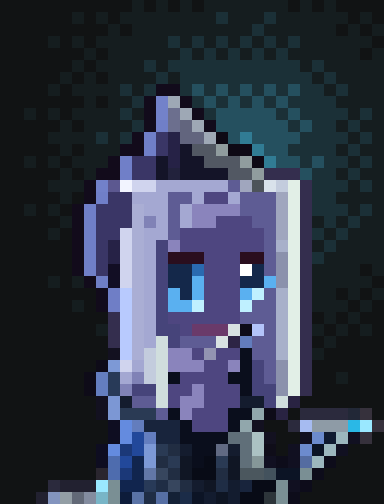
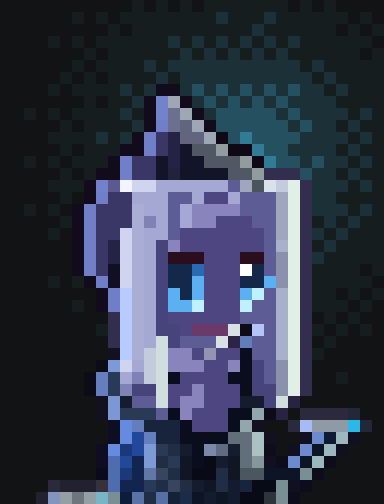
Drow Ranger: bow() orthogonalizes the string side; shorter quiver fletching; VOXEL.md lists bow

diff --git a/client/src/art/portraits/drow_ranger.js b/client/src/art/portraits/drow_ranger.js
@@ -1,7 +1,7 @@
 // GENERATED by tools/vox/portrait.mjs (drow_ranger) -- do not edit by hand. Voxel HUD portrait 32x42 (= the 32x42 the HUD shows, 1 art px = 1 u), opaque.
 // Loaded by client/src/art/portraits.js, which swaps it into the sheet's 'portrait' frame unless ?vox=0.
 export default {
-  pal: { '0':'#8a84bc', '1':'#46447a', '2':'#aaaed4', '3':'#707fc8', '4':'#141428', '5':'#d0d4ee', '6':'#14284a', '7':'#525863', '8':'#a8b0ca', '9':'#5ab0f0', '!':'#111314', '#':'#151d1f', '$':'#1b3037', '%':'#4e4680', '&':'#5e5c94', '(':'#25505f', ')':'#a4a8d2', '*':'#120b1b', '+':'#342e4e', ',':'#3a3666', '-':'#e2efe7', '/':'#0a0e1c', ':':'#d0dedd', ';':'#111021', '<':'#080b16', '=':'#8b91ac', '>':'#b8cafe', '?':'#141c2e', '@':'#2a3a54', 'A':'#2b2a3d', 'B':'#18243c', 'C':'#262246', 'D':'#a0a6be', 'E':'#2a0e1e', 'F':'#0e0b18', 'G':'#131120', 'H':'#212d42', 'I':'#101624', 'J':'#0d0c1a', 'K':'#7a8f94', 'L':'#9ea8b5', 'M':'#0e0915', 'N':'#c3ccdd', 'O':'#0e0d21', 'P':'#606f79', 'Q':'#0c1425', 'R':'#11254e', 'S':'#222130', 'T':'#62657e', 'U':'#317c94', 'V':'#909c9e', 'W':'#8082b6', 'X':'#6f7ec6', 'Y':'#bff0ff', 'Z':'#6a3a6a', '[':'#7d99d6', ']':'#647ebf', '^':'#283a58', '_':'#36313c', 'a':'#648bdf', 'b':'#8e9ba6', 'c':'#22489a', 'd':'#9cb7be', 'e':'#1f2d45', 'f':'#131c2f', 'g':'#7382ca', 'h':'#6c6f8e', 'i':'#120e24', 'j':'#d8e2e2', 'k':'#7c97d4', 'l':'#292342', 'm':'#91a7ac', 'n':'#9ae8ff', 'o':'#abc2c3', 'p':'#6c8bce', 'q':'#1b3878', 'r':'#4e6cae', 's':'#37465e', 't':'#4b575e', 'u':'#22223c', 'v':'#7281ca', 'w':'#5c5890', 'x':'#f2f4ff', 'y':'#4d535a', 'z':'#d9e2eb', '{':'#2a6ab0', '|':'#ffffff', '}':'#b3c4fa', '~':'#2d2445', '¡':'#627cbc', '¢':'#9394b1', '£':'#222837', '¤':'#637dbd', '¥':'#a6bbf1', '¦':'#2ab8e6', '§':'#101a30', '¨':'#616a83', '©':'#0f0d19', 'ª':'#859798', '«':'#546ca1', '¬':'#2a262f', '®':'#6277a7', '¯':'#43525d', '°':'#8394be', '±':'#939ea5', '²':'#626977', '³':'#838c9f', '´':'#78b5c7', 'µ':'#0d1c3a', '¶':'#5a73a6', '·':'#566fa4', '¸':'#142136', '¹':'#1b2c48', 'º':'#0e1523', '»':'#2d353a' },
+  pal: { '0':'#46447a', '1':'#0a0e1c', '2':'#aaaed4', '3':'#707fc8', '4':'#141428', '5':'#d0d4ee', '6':'#14284a', '7':'#525863', '8':'#a8b0ca', '9':'#5ab0f0', '!':'#111314', '#':'#151d1f', '$':'#1b3037', '%':'#4e4680', '&':'#5e5c94', '(':'#25505f', ')':'#a4a8d2', '*':'#120b1b', '+':'#342e4e', ',':'#3a3666', '-':'#e2efe7', '/':'#8a84bc', ':':'#d0dedd', ';':'#141c2e', '<':'#080b16', '=':'#8b91ac', '>':'#b8cafe', '?':'#2b2a3d', '@':'#18243c', 'A':'#111021', 'B':'#0c1425', 'C':'#262246', 'D':'#a0a6be', 'E':'#2a0e1e', 'F':'#0e0b18', 'G':'#131120', 'H':'#2a3a54', 'I':'#212d42', 'J':'#101624', 'K':'#0d0c1a', 'L':'#9ea8b5', 'M':'#0e0915', 'N':'#c3ccdd', 'O':'#0e0d21', 'P':'#606f79', 'Q':'#11254e', 'R':'#7a8f94', 'S':'#222130', 'T':'#62657e', 'U':'#317c94', 'V':'#909c9e', 'W':'#8082b6', 'X':'#6f7ec6', 'Y':'#bff0ff', 'Z':'#6a3a6a', '[':'#7d99d6', ']':'#647ebf', '^':'#283a58', '_':'#648bdf', 'a':'#8e9ba6', 'b':'#22489a', 'c':'#6c8bce', 'd':'#9cb7be', 'e':'#4e6cae', 'f':'#1f2d45', 'g':'#131c2f', 'h':'#7382ca', 'i':'#6c6f8e', 'j':'#120e24', 'k':'#d8e2e2', 'l':'#7c97d4', 'm':'#292342', 'n':'#91a7ac', 'o':'#222837', 'p':'#abc2c3', 'q':'#1b3878', 'r':'#37465e', 's':'#4b575e', 't':'#939ea5', 'u':'#22223c', 'v':'#7281ca', 'w':'#5c5890', 'x':'#f2f4ff', 'y':'#4d535a', 'z':'#d9e2eb', '{':'#2a6ab0', '|':'#ffffff', '}':'#b3c4fa', '~':'#2d2445', '¡':'#627cbc', '¢':'#9394b1', '£':'#637dbd', '¤':'#a6bbf1', '¥':'#2ab8e6', '¦':'#101a30', '§':'#7c88a8', '¨':'#616a83', '©':'#0f0d19', 'ª':'#859798', '«':'#0b0a1a', '¬':'#6277a7', '®':'#36313c', '¯':'#8394be', '°':'#6e767b', '±':'#78b5c7', '²':'#0d1c3a', '³':'#5a73a6', '´':'#566fa4', 'µ':'#142136', '¶':'#1b2c48', '·':'#0e1523', '¸':'#2d353a' },
   face: [4, 11, 24, 24],
   rows: [
     '!!!!!!!!!!!#!#!#!#######!#!#!!!!',
@@ -12,39 +12,39 @@ export default {
     '!!!!!!#!####$#$$$$$$$$$$$#$#####',
     '!!!!!#!#!####$#$$$$$$$$$$$#$####',
     '!!!!#!####$#$**$($($($($($$#$###',
-    '!!!!!!!#!##$*gL*$($($($($$$$####',
-    '!!#!#!####$#*ghL*$((((($($$$$#$#',
-    '!!!!!#!####$*3hTL*(((((($($$#$##',
+    '!!!!!!!#!##$*hL*$($($($($$$$####',
+    '!!#!#!####$#*hiL*$((((($($$$$#$#',
+    '!!!!!#!####$*3iTL*(((((($($$#$##',
     '!!!!####$#$*3,CTTLM(U(((($$$$#$#',
     '!!!!!#!###**3,C477VMMU(($$$$#$##',
     '!!#!#!###*3,,4C44777VMU(($($$#$#',
     '!!!!!#!#**3,,4u444477V+++($$#$##',
     '!!!!###*vwx55))))))&DyzN-+$$$#$#',
     '!!!!!#!*3,,)))&&)%%)&&&D-+$$####',
-    '!!#!#!*3,,,2))&)0000&&&D-+$$$#$#',
-    '!!!!!#*3,,,2W)&)00%%%&&D-+#$#$##',
+    '!!#!#!*3,,,2))&)////&&&D-+$$$#$#',
+    '!!!!!#*3,,,2W)&)//%%%&&D-+#$#$##',
     '!!!!#!*3,,52))&%%%%%%%&D-+$#$###',
-    '!!!!!!*3,C52)10%%%%%%%&8-+#$####',
-    '!!!!!!*3,C52)1EEE%%%EE&=-+$#####',
-    '!!!!!!*3,i52)166{%%%|6&=-+####!#',
-    '!!!!#!#*Xi52)1669%%%669=-+#####!',
-    '!!!!!!!!*X>2)1969%%%9Y&8-+##!#!#',
-    '!!!!!!#!*X>2)199Y%%%Y&&8-+###!#!',
-    '!!!!!!!!!+>2)1%%%%%%&&&8-+!#!#!!',
-    '!!!!!!!!#+>2)11%ZZZjF}&8-+#!#!#!',
-    '!!!!!!!!!+>2):1&&&j~¡&&8-+!#!!!!',
-    '!!!!!!!!!G>2N:00%¢%%/&&8-+#!!!!!',
-    '!!!!!!!!F[5)N:000%%0/1&=-+!!!!!!',
-    '!!!!!!!F]^)WN:/%%%%//1&=-+!!#!!!',
-    '!!!!!!!F]^W11:%%0%%%/11=-+!!!!!!',
-    '!!!!!!!!Gk?&&:%00%%%??1:l!!!!!!!',
-    '!!!!!!!!Gk@@@&/0%%%//mFl!AAAA£_!',
-    '!!!!!!!!!Oa¤BBB/%%%/mG!!A¥bbb¦n_',
-    '!!!!!!!!!Oac]BB////PPoG!!;p§d;_!',
-    '!!!!!!!!Oaqc[@H?//¨?Po©!;pQd;!!!',
-    '!!!!!!!!OrcR[H@I/<@IPª;J;«dJ!!!!',
-    '!!!!!!!!¬rqR®sHI<<HItt¯QQKJ!!!!!',
-    '!!!!ASSSnKRR^esH?IefB<<K;J!!!!!!',
-    '!!!S°±²³´Kµ¶e·¸¹Qfºf<<»KJ!!!!!!!'
+    '!!!!!!*3,C52)0/%%%%%%%&8-+#$####',
+    '!!!!!!*3,C52)0EEE%%%EE&=-+$#####',
+    '!!!!!!*3,j52)066{%%%|6&=-+####!#',
+    '!!!!#!#*Xj52)0669%%%669=-+#####!',
+    '!!!!!!!!*X>2)0969%%%9Y&8-+##!#!#',
+    '!!!!!!#!*X>2)099Y%%%Y&&8-+###!#!',
+    '!!!!!!!!!+>2)0%%%%%%&&&8-+!#!#!!',
+    '!!!!!!!!#+>2)00%ZZZkF}&8-+#!#!#!',
+    '!!!!!!!!!+>2):0&&&k~¡&&8-+!#!!!!',
+    '!!!!!!!!!G>2N://%¢%%1&&8-+#!!!!!',
+    '!!!!!!!!F[5)N:///%%/10&=-+!!!!!!',
+    '!!!!!!!F]^)WN:1%%%%110&=-+!!#!!!',
+    '!!!!!!!F]^W00:%%/%%%100=-+!!!!!!',
+    '!!!!!!!!Gl;&&:%//%%%;;0:m!!!!!!!',
+    '!!!!!!!!GlHHH&1/%%%11nFm!????o!!',
+    '!!!!!!!!!O_£@@@1%%%1nG!!?¤aaa¥o!',
+    '!!!!!!!!!O_b]@@1111PPpG!!Ac¦dA!!',
+    '!!!!!!!!O_qb[HI;1§¨;Pp©!AcBdA!!!',
+    '!!!!!!!!OebQ[IHJ1<;JPªAKcBdK!!!!',
+    '!!!!!!!!«eqQ¬rIJ<<IJssBBBRK!!!!!',
+    '!!!!?SSS®eQQ^frI;Jfg@<<RAK!!!!!!',
+    '!!!S¯t°t±R²³f´µ¶Bg·g<<¸RK!!!!!!!'
   ]
 };

diff --git a/shared/vox/parts.js b/shared/vox/parts.js
@@ -301,11 +301,11 @@ export function shield(v, rig, k, o, M) {
   disc(v, c, n, r, th, (px, py, pz, rad, front) => (rad > 1 - 1.15 / r ? M.rim : rad < 1.3 / r && front ? M.boss : M.face));
   v.ellipsoid(...add3(c, mul3(n, th / 2)), 0.9, 0.9, 0.9, M.boss);
 }
-/** Recurve bow gripped at g (posed): limbs along unit axis d (tip to tip), string on the archer side n (unit, perpendicular to d).
+/** Recurve bow gripped at g (posed): limbs along unit axis d (tip to tip), string on the archer side n (made perpendicular to d).
  * o: { len (half length), bend (limb sweep toward the string at the tips), recurve (tip flick away from the string over the last quarter),
  * r (limb radius), string (false = none) }. M: { limb, tip?, grip?, string? }; tip = the outer recurve (often emissive). Returns the tips [a, b]. */
-export function bow(v, g, d, n, o, M) {
-  const L = o.len ?? 9, bend = o.bend ?? 2.4, rc = o.recurve ?? 1.4, r = o.r ?? 0.6, N = Math.max(6, Math.ceil(L * 1.5));
+export function bow(v, g, d, n0, o, M) {
+  const n = norm3(sub3(n0, mul3(d, dot3(d, n0)))), L = o.len ?? 9, bend = o.bend ?? 2.4, rc = o.recurve ?? 1.4, r = o.r ?? 0.6, N = Math.max(6, Math.ceil(L * 1.5));
   const at = t => { const a = Math.abs(t), f = Math.max(0, (a - 0.75) / 0.25); return add3(add3(g, mul3(d, L * t)), mul3(n, bend * a * a - rc * f * f)); };
   for (const s of [-1, 1]) for (let i = 0; i < N; i++) {
     const t0 = s * i / N, t1 = s * (i + 1) / N, tip = M.tip && Math.abs(t1) > 0.78;

diff --git a/shared/vox/heroes/drow_ranger.js b/shared/vox/heroes/drow_ranger.js
@@ -73,7 +73,7 @@ export function build(p = {}) {
   const q0 = [cx + 2.6, cy + 4.2, 11 + U], q1 = [cx - 2.4, cy + 4, 21.6 + U];
   cap(v, T.torso, q0, q1, 1.5, M.navy, 1.7);
   band(v, xfApply(T.torso, q0), xfApply(T.torso, q1), 0.86, 0.94, 1.9, M.steel);
-  for (const [ox, oy] of [[-0.6, -0.3], [0.7, 0.4], [0, 0.9]]) cap(v, T.torso, [q1[0] + ox, q1[1] + oy, q1[2]], [q1[0] - 1.2 + ox, q1[1] + oy, q1[2] + 2.6], 0.5, M.tip);
+  for (const [ox, oy] of [[-0.6, -0.3], [0.7, 0.4], [0, 0.9]]) cap(v, T.torso, [q1[0] + ox, q1[1] + oy, q1[2]], [q1[0] - 0.6 + ox, q1[1] + oy + 0.6, q1[2] + 1.2], 0.5, M.tip);
 
   // ---- legs: dark leggings, tall dark boots to the knee with a steel cuff and knee plate
   for (const k of ['R', 'L']) {

diff --git a/docs/VOXEL.md b/docs/VOXEL.md
@@ -79,7 +79,7 @@ Pose channels (all optional): `bob`; `spine` / `head` / `body` `[pitch, yaw, rol
 | Body | `torso` (cross-section fn), `skirt`, `pauldron` |
 | Head | `faceWindow` (fringe line), `head`, `hairShell`, `helmet`, `eyes` (`big`, `dot`), `mouth` |
 | Signature | `flame` (tongues over 4 emissive steps) |
-| Held | `weapon` (`sword`, `club`, `spear`, `axe` at a hand socket), `shield` |
+| Held | `weapon` (`sword`, `club`, `spear`, `axe` at a hand socket), `shield`, `bow` (recurve, emissive tips) |
 
 ## Materials (`mats.js`)
 `useMat(v, name, { from, ...overrides })`. Heroes pick by name and override only signature colours.
